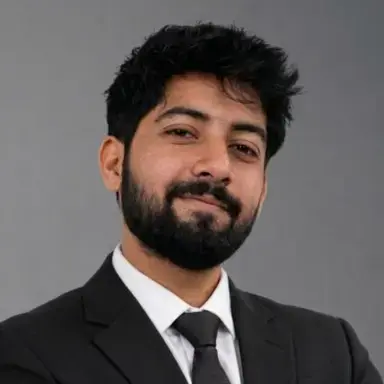
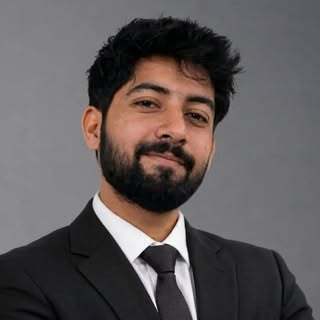
adowise-update

diff --git a/src/app/page.tsx b/src/app/page.tsx
@@ -644,10 +644,10 @@ export default function Home() {
                 <h3 className="text-[22px] font-bold text-[#1f1b16] mb-1 font-display italic">{plan.title}</h3>
 
                 {/* Price */}
-                <div className="font-display italic text-[64px] md:text-[88px] font-light tracking-[-0.04em] leading-none my-5 text-[#1f1b16] relative z-10 flex items-baseline justify-center gap-1">
-                  <span className="text-[13px] font-sans font-medium text-[#4a413a] opacity-60 uppercase mb-3 tracking-normal">just</span>
+                <div className="font-display italic text-[64px] md:text-[48px] font-light tracking-[-0.04em] leading-none my-5 text-[#1f1b16] relative z-10 flex items-baseline justify-center gap-1">
+                  <span className="text-[13px] md:text-[10px] font-sans font-medium text-[#4a413a] opacity-60 uppercase mb-3 md:mb-1.5 tracking-normal">just</span>
                   {plan.price}
-                  <span className="text-[22px] font-sans font-bold text-[#d9692a] mb-3 tracking-normal">rs</span>
+                  <span className="text-[22px] md:text-[16px] font-sans font-bold text-[#d9692a] mb-3 md:mb-1.5 tracking-normal">rs</span>
                 </div>
 
                 <div className="text-[14px] text-[#4a413a] leading-[1.5] mb-[28px] max-w-full md:max-w-[320px]">
@@ -693,7 +693,7 @@ export default function Home() {
               <div className="relative group">
                 <div className="absolute inset-[-20px] border border-[#d9692a]/10 rounded-full animate-spin-slow" />
                 <div className="absolute inset-[-40px] border border-[#d9692a]/5 rounded-full animate-reverse-spin-slow" />
-                <div className="relative h-64 w-64 md:h-80 md:w-80 rounded-full bg-gradient-to-br from-[#1f1b16] to-[#4a413a] flex items-center justify-center overflow-hidden border-4 border-[#faf6f0] shadow-2xl">
+                <div className="relative h-52 w-52 md:h-64 md:w-64 rounded-full bg-gradient-to-br from-[#1f1b16] to-[#4a413a] flex items-center justify-center overflow-hidden border-4 border-[#faf6f0] shadow-2xl">
                   <Image
                     src="/founder.png"
                     alt="Mohammad Altaf - Founder"